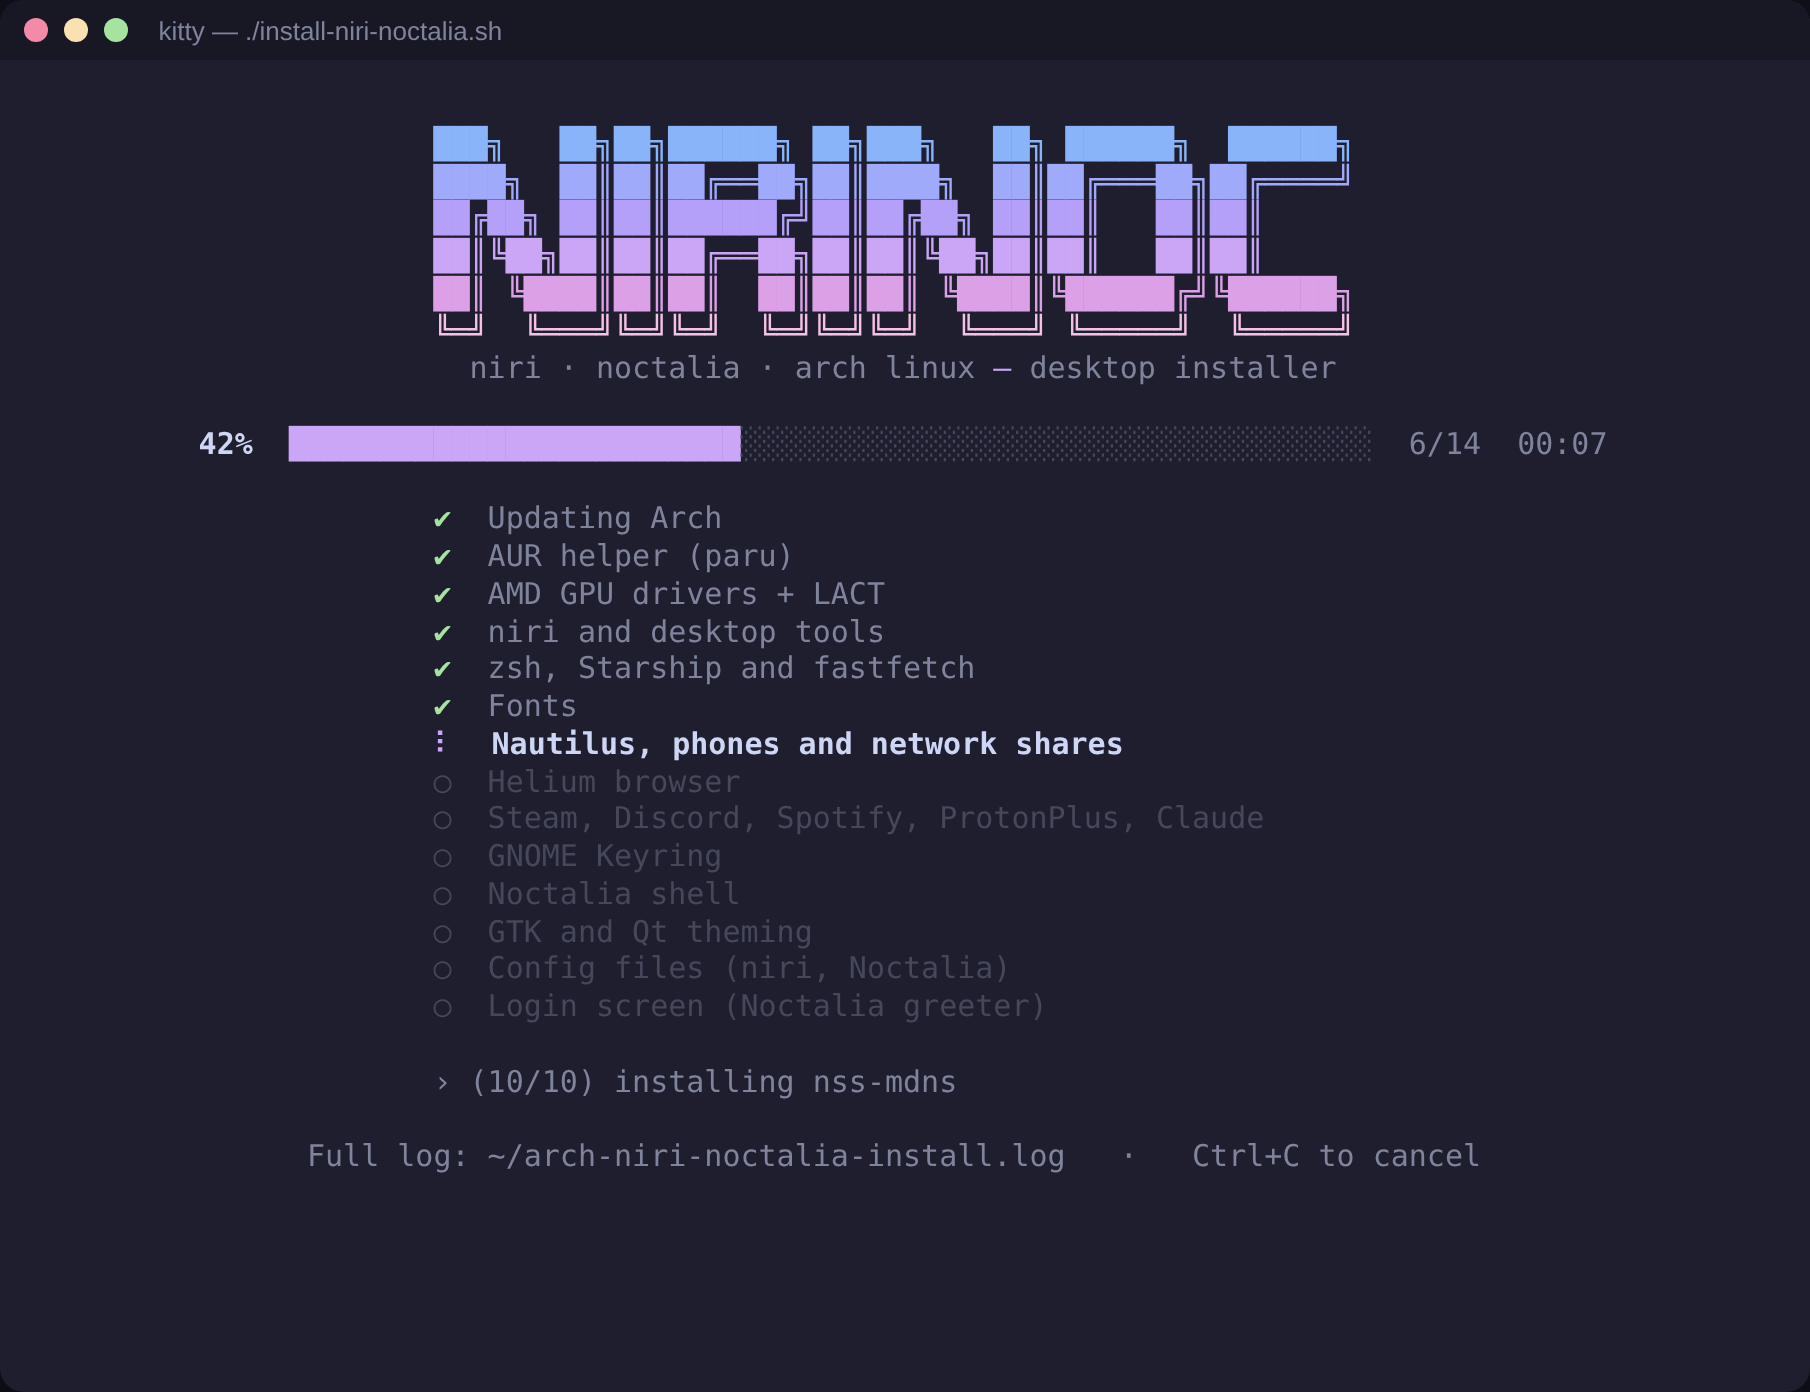
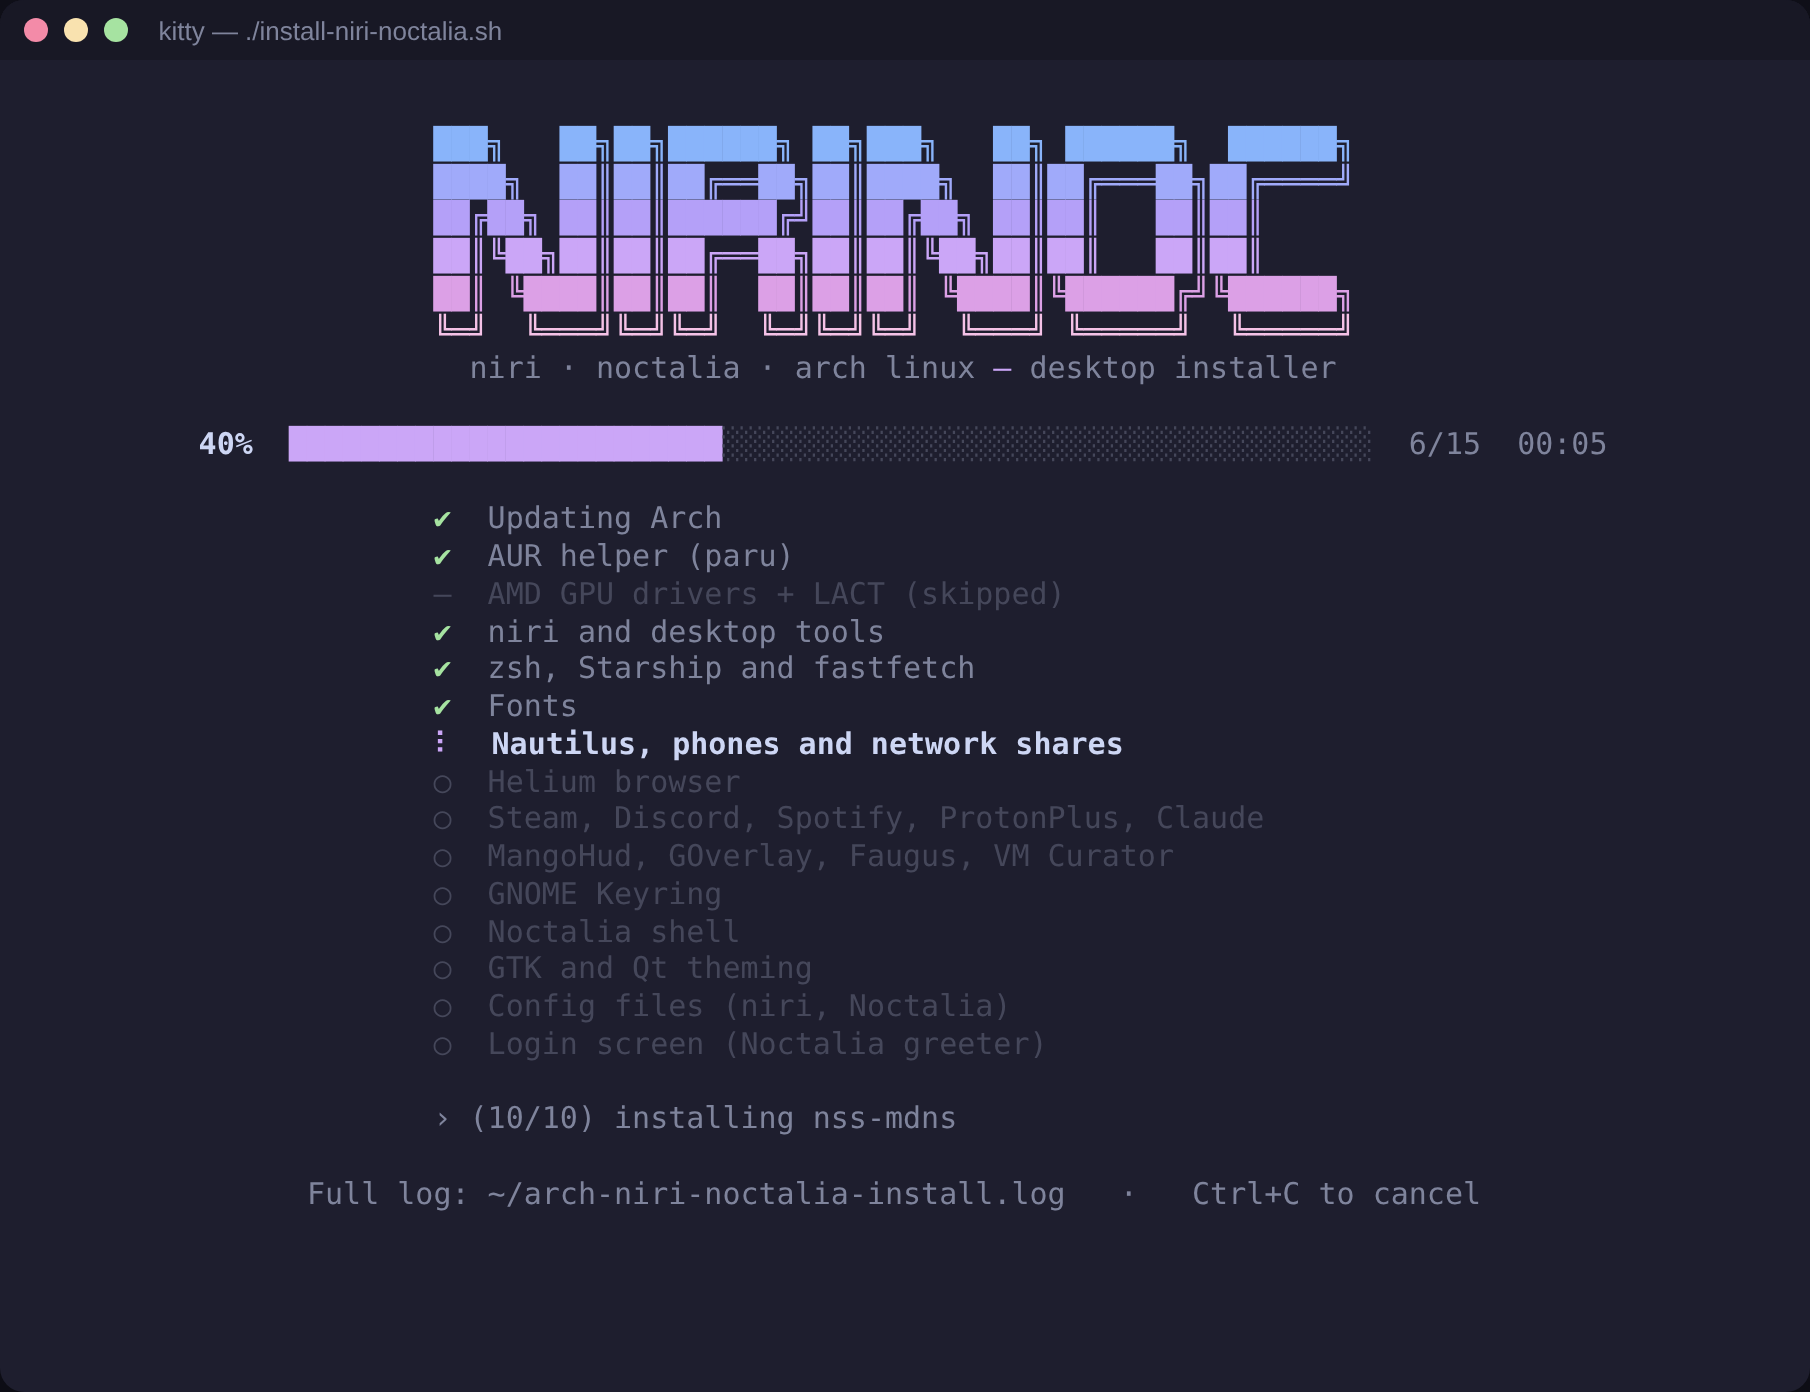
README: add TTY screenshot next to the kitty one
Both screenshots re-taken from the current 15-step installer.

Claude-Session: https://claude.ai/code/session_017RquHjwUhQUKXfhtYEpGyT

diff --git a/README.md b/README.md
@@ -25,7 +25,9 @@ cd arch-niri-noctalia
 The installer asks its questions and your sudo password once at the start. After that
 it shows a progress screen instead of the full package output:
 
-![The installer's progress screen](docs/installer.png)
+| In kitty and other modern terminals | On the Linux console (TTY) |
+|---|---|
+| ![The installer's progress screen in kitty](docs/installer.png) | ![The installer's progress screen on the Linux console](docs/installer-tty.png) |
 
 - Everything it does is logged to `~/arch-niri-noctalia-install.log` (the previous run is kept as `.old`).
 - It adapts to your terminal: the full 24-bit colour design in kitty and other modern terminals, and basic colours with plain symbols on the Linux console (TTY), whose font can't show the fancy ones.
